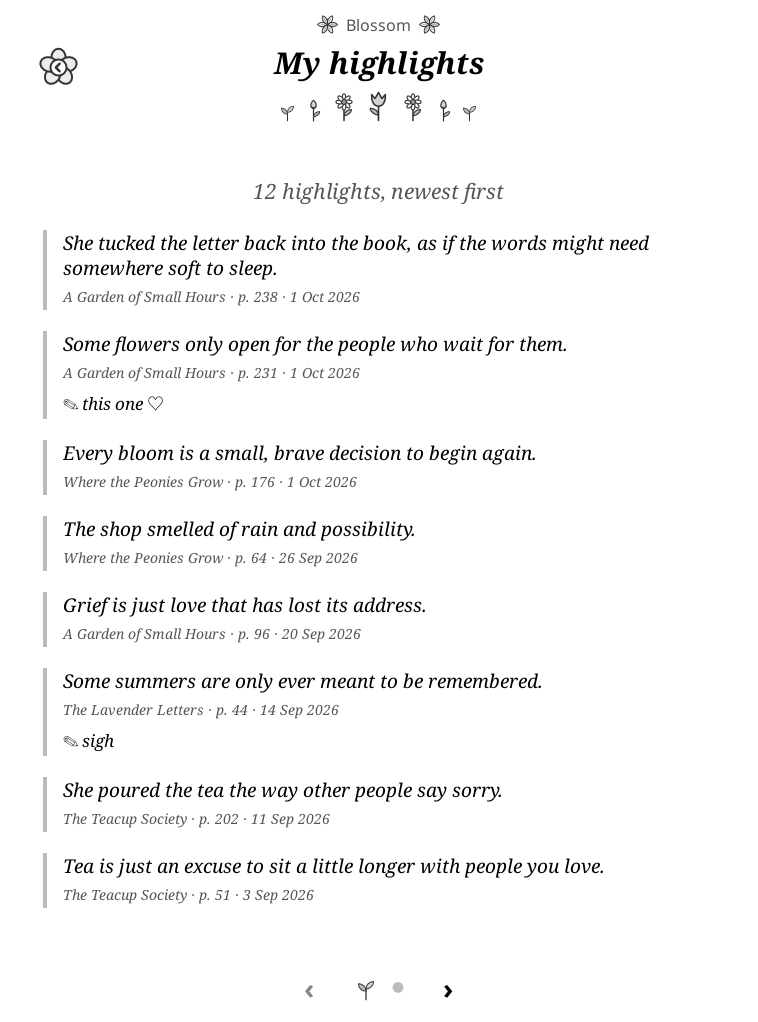
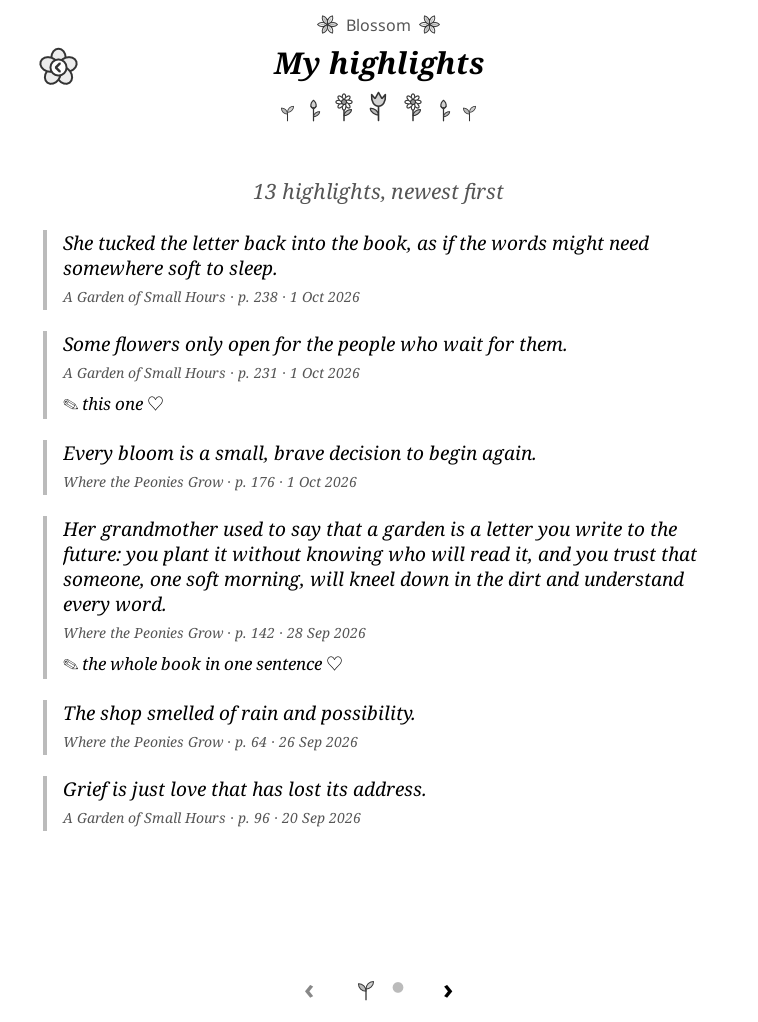
Show whole highlights (cut only when taller than a page)

diff --git a/tools/make_demo.py b/tools/make_demo.py
@@ -55,6 +55,9 @@ QUOTES = {
     "where-the-peonies-grow": [
         ("07:15:30", "underscore", "Every bloom is a small, brave decision to begin again.", "", 176, "Part One"),
         ("2026-09-26 07:40:00", "lighten", "The shop smelled of rain and possibility.", "", 64, "Part One"),
+        ("2026-09-28 21:10:00", "lighten", "Her grandmother used to say that a garden is a letter you write to the future: "
+         "you plant it without knowing who will read it, and you trust that someone, one soft morning, will kneel "
+         "down in the dirt and understand every word.", "the whole book in one sentence ♡", 142, "Part Two"),
     ],
     "the-lavender-letters": [
         ("2026-09-14 22:05:00", "lighten", "Some summers are only ever meant to be remembered.", "sigh", 44, "Summer One"),
